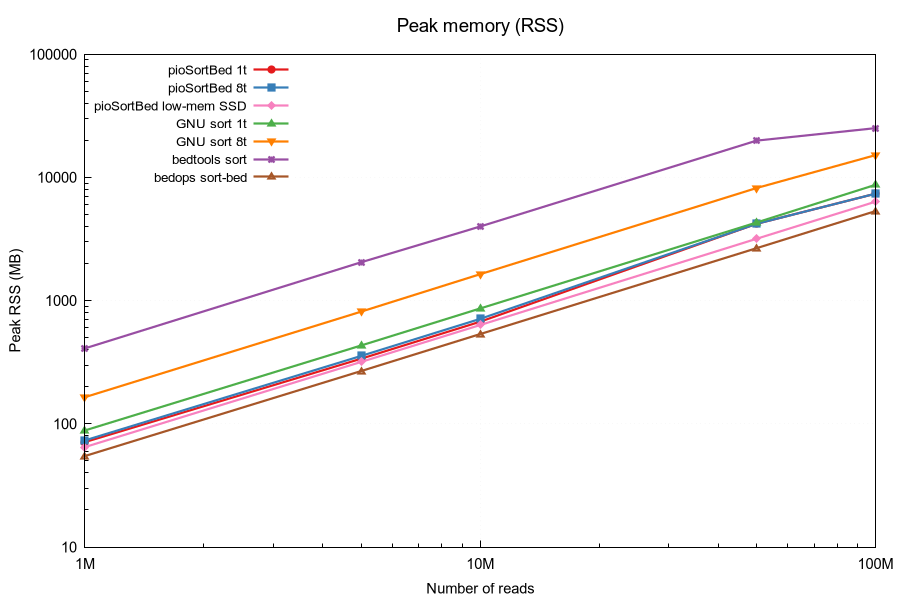
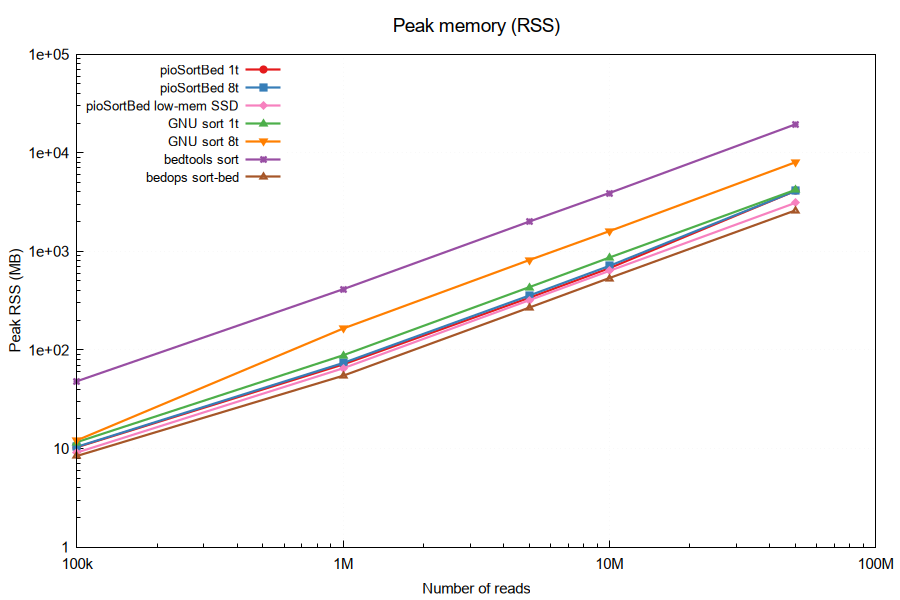
benchmark: add linear-scale wall time and memory plots to README
Add benchmark_time_linear.png and benchmark_memory_linear.png (non-log
y-axis) shown in README immediately after the existing log-scale plots.
Update plot_readme.gp to generate all four plots and fix the missing
memory plot section; extend benchmark_readme.csv with memory columns.

diff --git a/README.md b/README.md
@@ -89,6 +89,8 @@ Wall time and peak RSS (resident set size) measured with GNU time. Times in seco
 
 ![Wall time comparison](benchmark_time.png)
 
+![Wall time comparison (linear scale)](benchmark_time_linear.png)
+
 #### Legend (point style & color):
 
 | Tool                | Color      | Point Style | Description |
@@ -119,6 +121,8 @@ Wall time and peak RSS (resident set size) measured with GNU time. Times in seco
 ### Peak Memory (RSS)
 
 ![Peak memory usage](benchmark_memory.png)
+
+![Peak memory usage (linear scale)](benchmark_memory_linear.png)
 
 | Reads | pio 1t ● | pio 8t ■ | pio low-mem ◆ | sort 1t ▲ | sort 8t ▼ | bedtools ✚ | bedops ✦ |
 |------:|----------|----------|---------------|-----------|-----------|------------|-----------|
